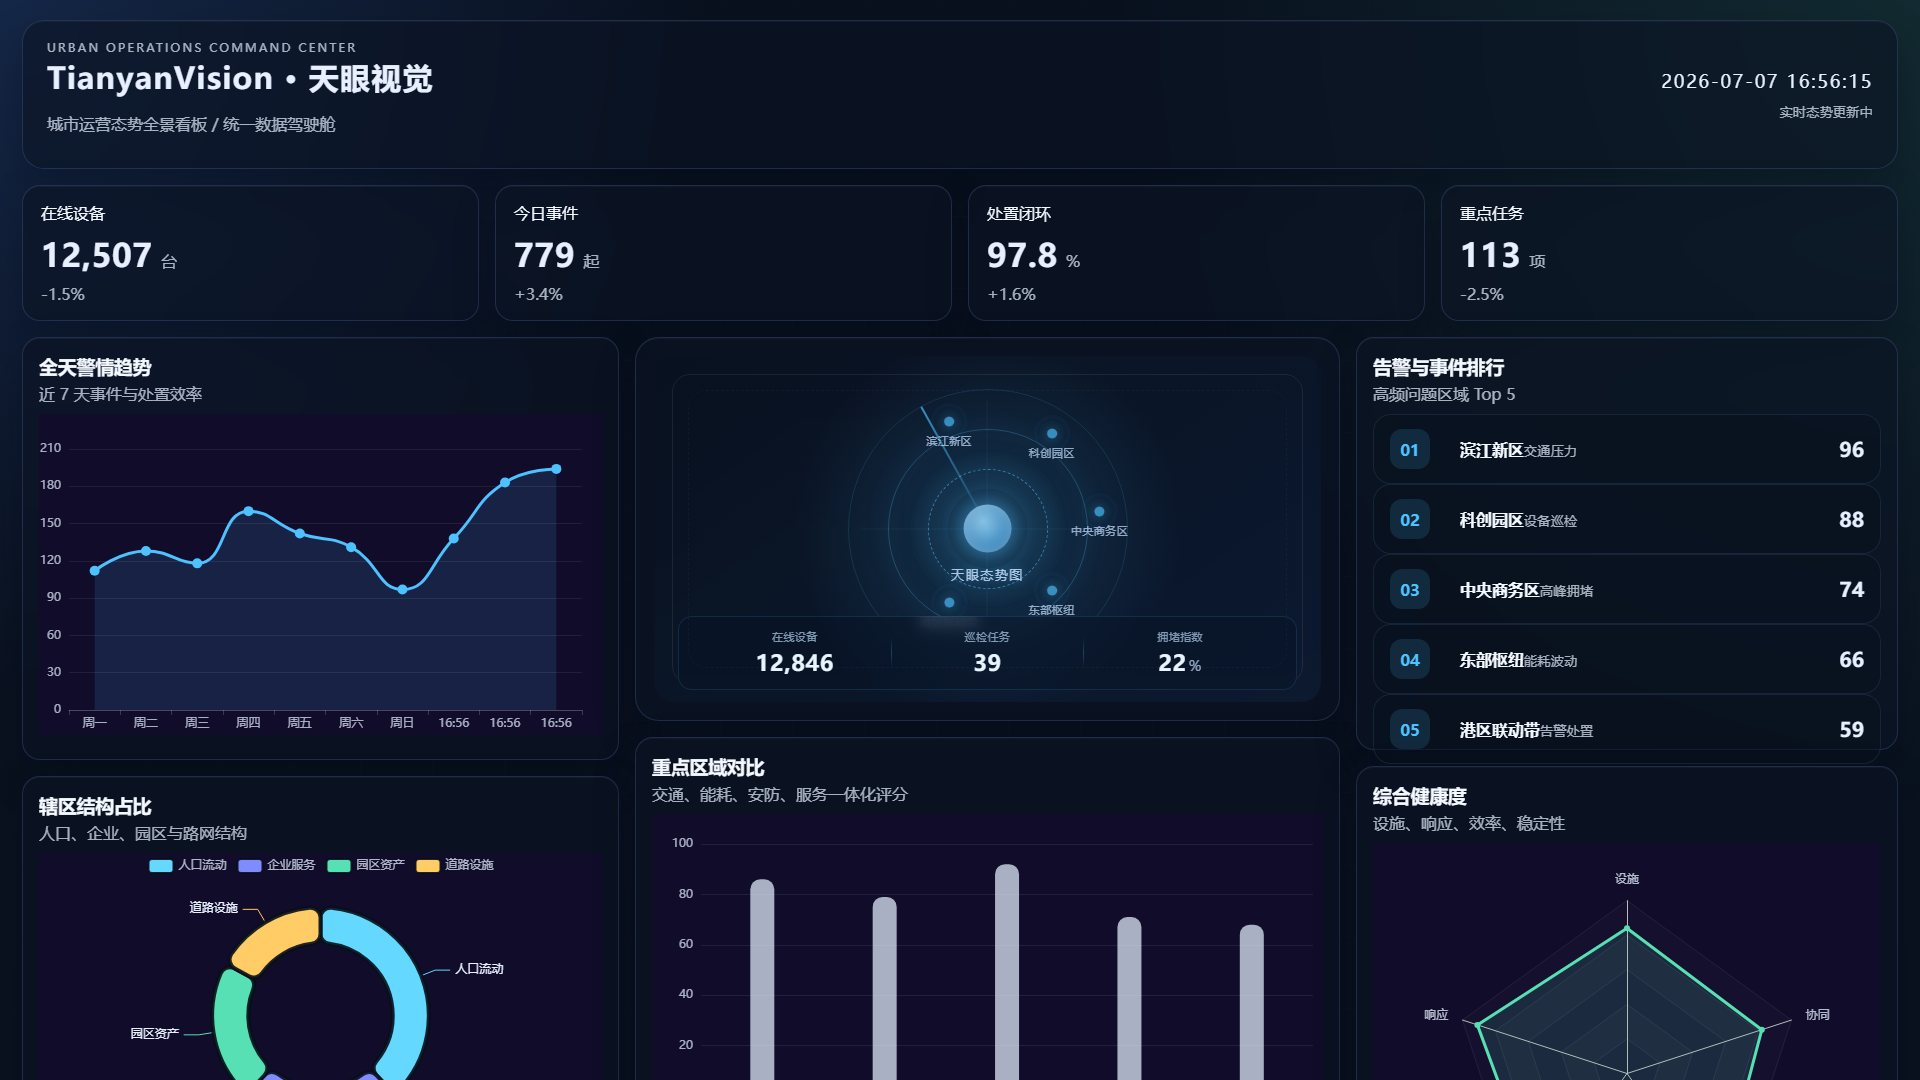
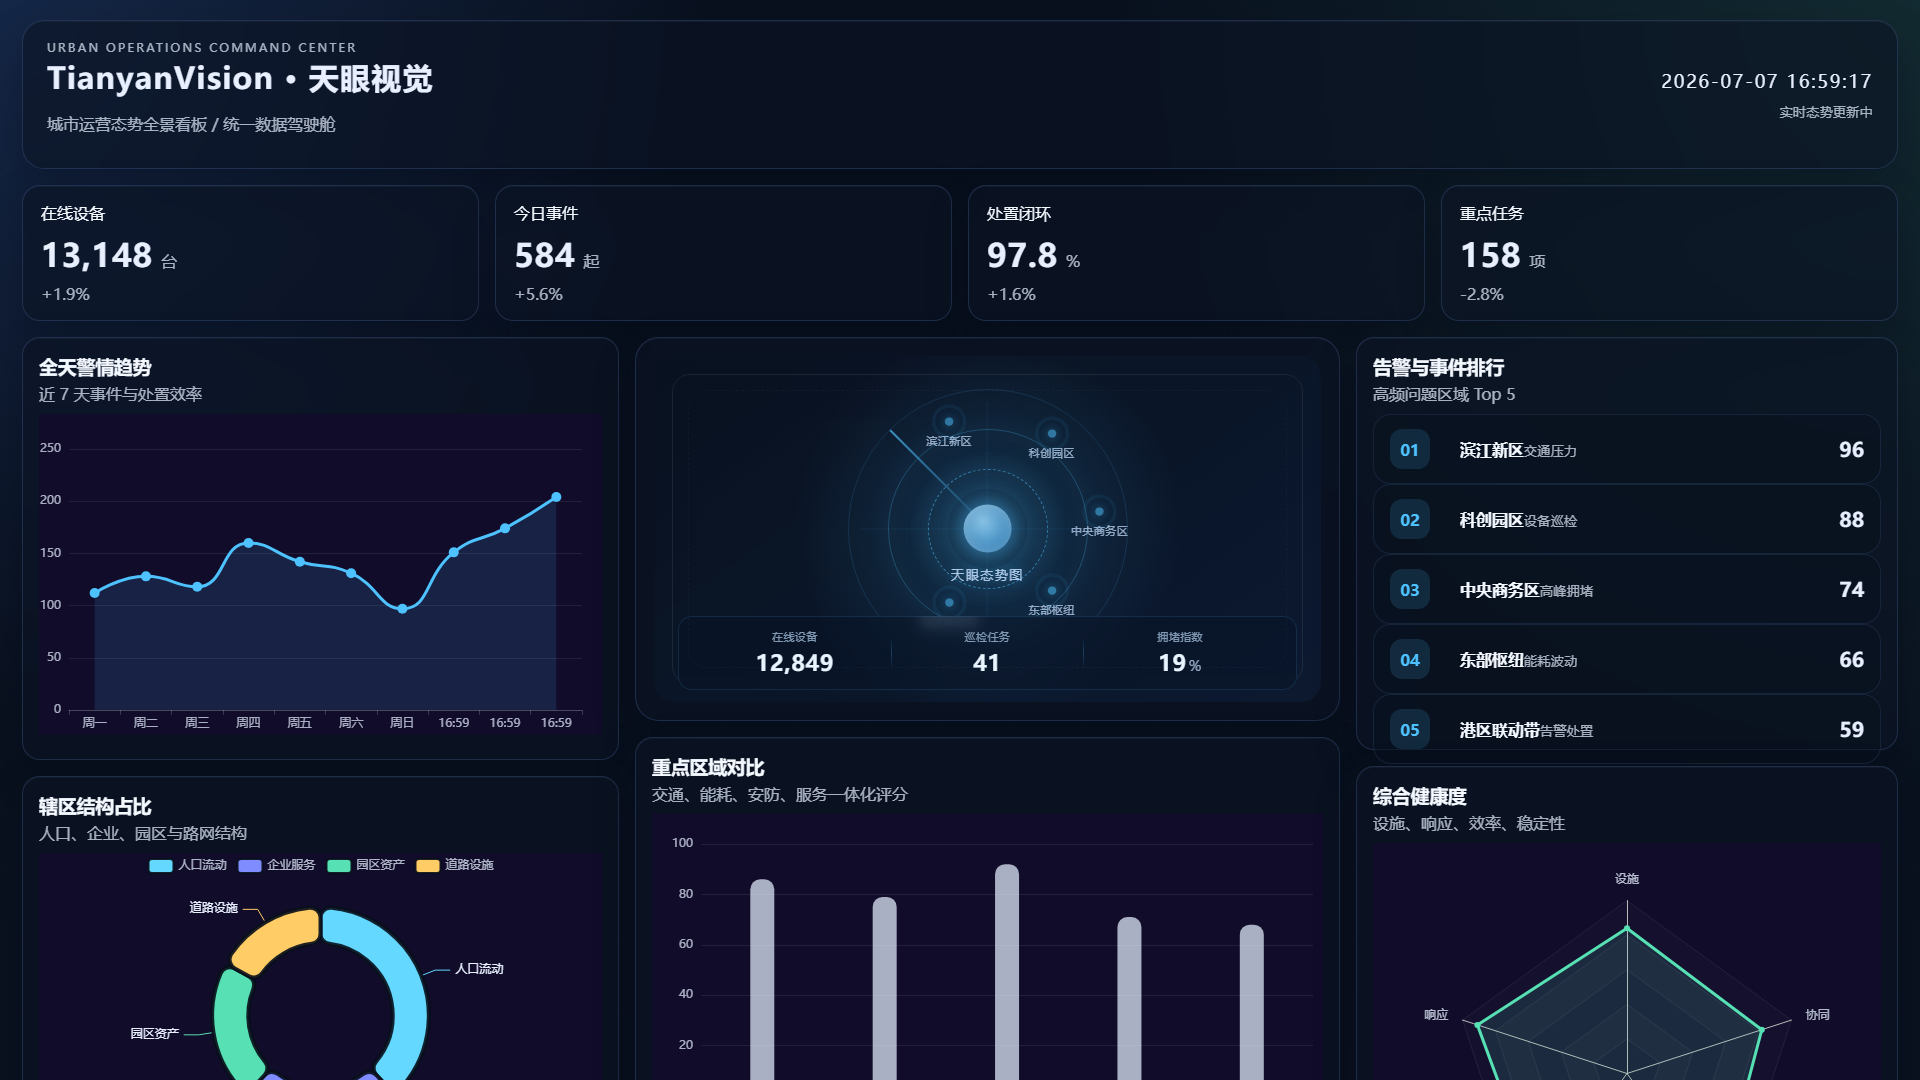
docs: 更新 README 中央区域描述，同步最新截图
- 中央区域描述改为天眼态势图（雷达扫描 + 同心圆环 + 外围节点）
- 更新项目截图以反映数据中枢精细化改造后的效果

diff --git a/README.md b/README.md
@@ -74,7 +74,7 @@
 - 辖区结构占比（饼图）：人口流动、企业服务、园区资产、道路设施分布
 
 **中央区域**
-- 如意数据中枢：城市运行总览态势图，展示在线设备、巡检任务、拥堵指数
+- 天眼态势图：雷达扫描动画 + 同心圆环 + 外围区域节点（滨江/科创/CBD/东枢纽/港区），底部集成实时指标条
 - 重点区域对比（柱状图）：滨江、科创、CBD 等区域综合评分对比
 
 **右栏**